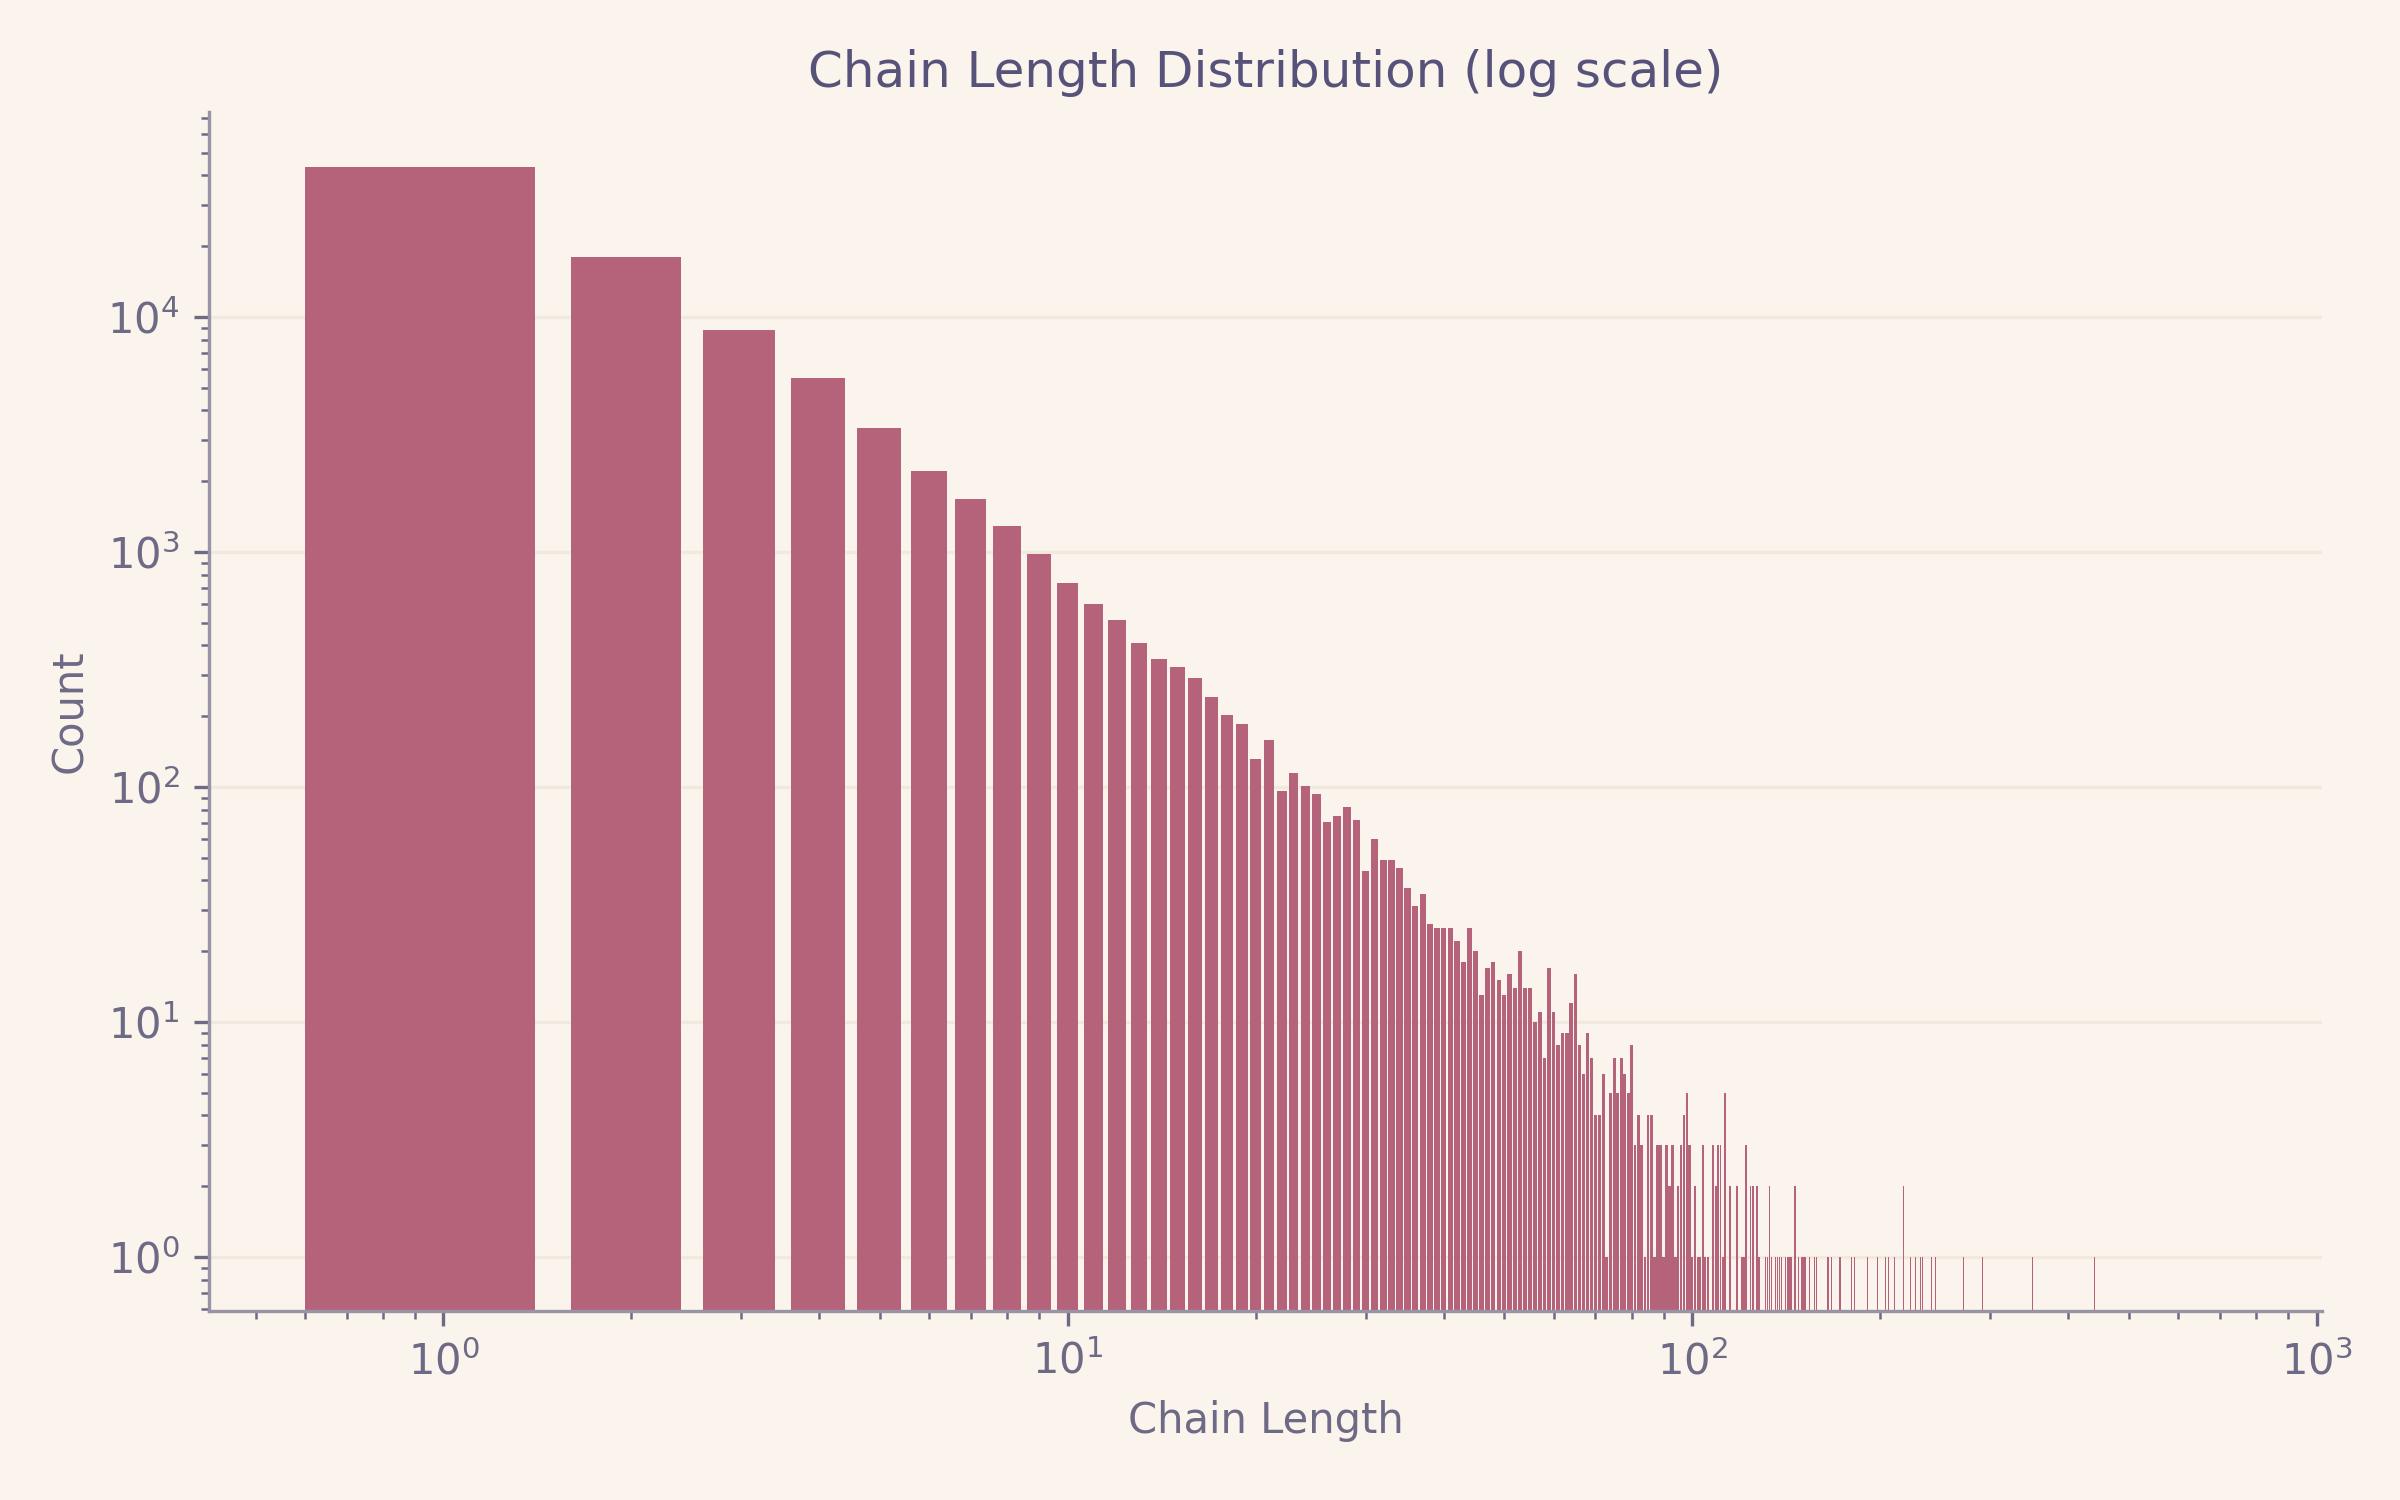
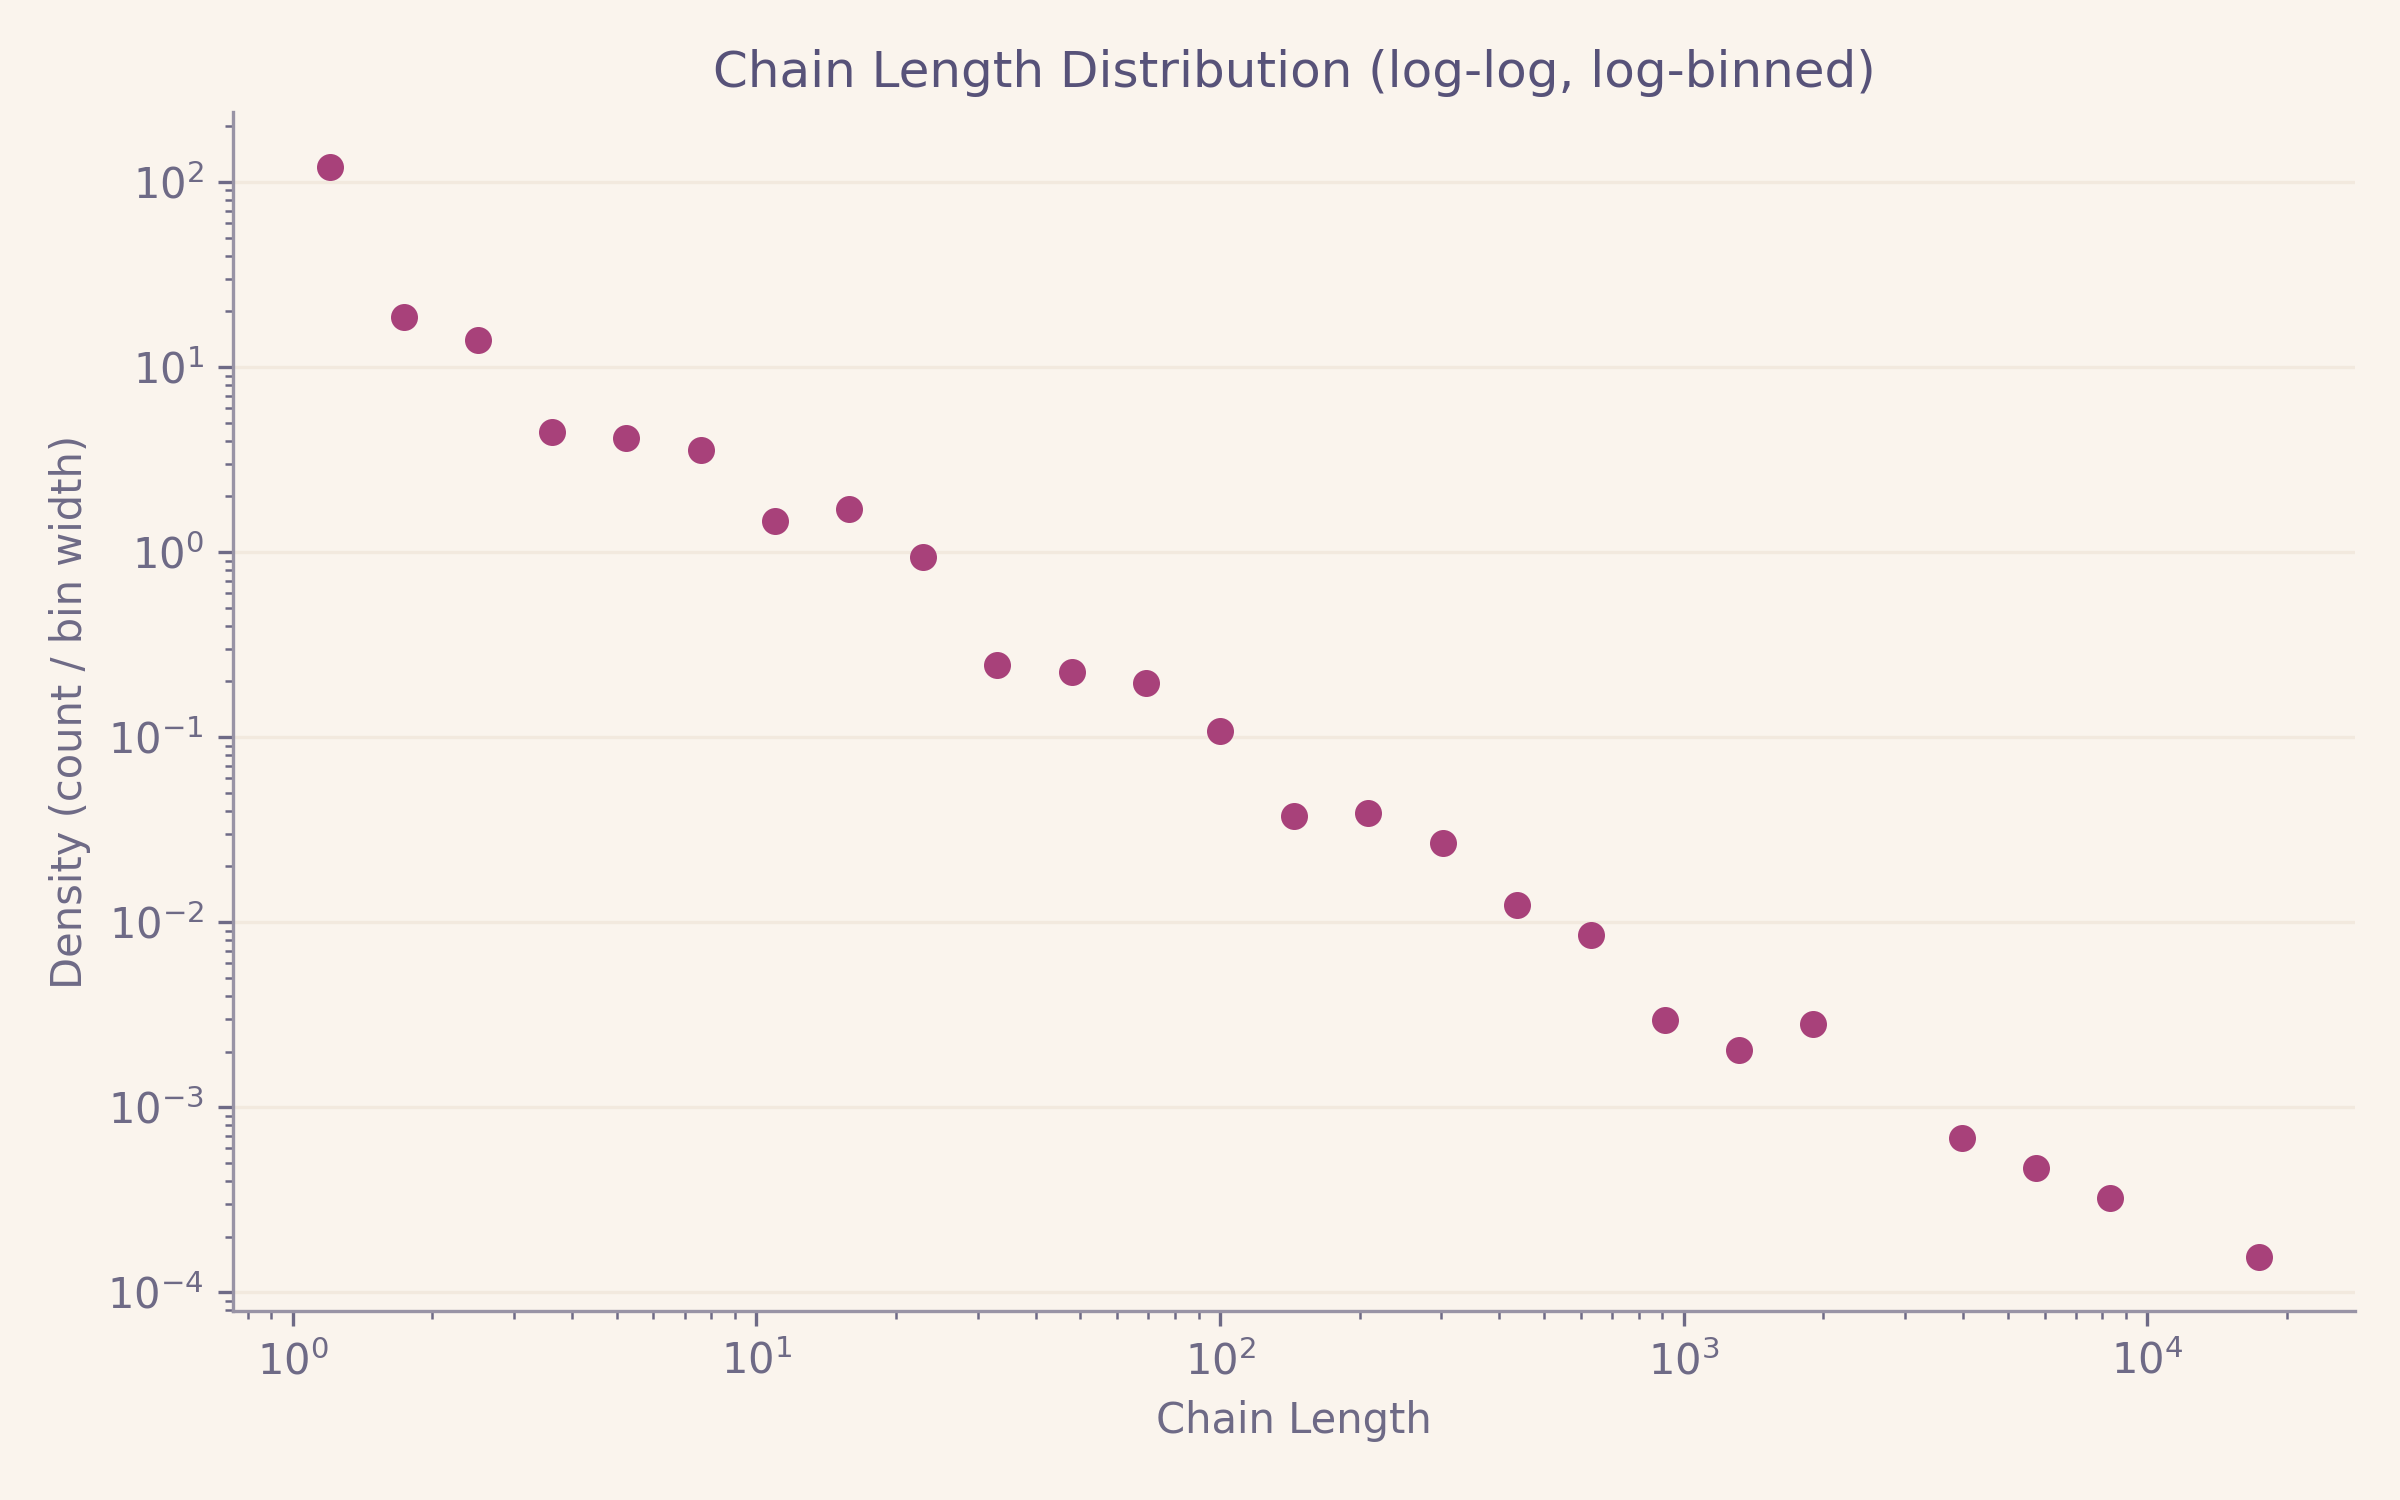
Finished fixing up the code and the plots. Only review left

diff --git a/src/plots.py b/src/plots.py
@@ -4,12 +4,22 @@ import matplotlib.pyplot as pyplot
 
 pyplot.style.use('rose-pine-dawn')
 
+def is_running_in_notebook() -> bool:
+    try:
+        from IPython import get_ipython
+        shell = get_ipython().__class__.__name__
+        return shell == "ZMQInteractiveShell"
+    except (NameError, ImportError):
+        return False
 
 def save_plot_image(name):
     pyplot.tight_layout()
     pyplot.savefig(f"../outputs/figures/{name}.png", dpi=300)
-    pyplot.clf()
 
+    if is_running_in_notebook():
+        pyplot.show()
+
+    pyplot.clf()
 
 def plot_relative_transaction_percentage(dataframe):
     dataframe = dataframe.drop(columns="transaction_id", errors="ignore")
@@ -17,7 +27,6 @@ def plot_relative_transaction_percentage(dataframe):
     ax.set_title("Relative Transaction Percentage Over Time")
     ax.set_xlabel("Time")
     ax.set_ylabel("Percentage (%)")
-    ax.legend(frameon=False)
     ax.spines[["top", "right"]].set_visible(False)
     save_plot_image("relative_transaction_percentage")
 
@@ -49,8 +58,8 @@ def plot_satoshi_dice_popularity(dataframe):
     save_plot_image("satoshi_dice_popularity")
 
 
-def plot_payout_distance_distribution(block_delta_dataframe, time_delta_dataframe):
-    fig, (ax1, ax2) = pyplot.subplots(1, 2, figsize=(16, 6))
+def plot_payout_distance_distribution(block_delta_dataframe, time_delta_dataframe, num_outlier_bins=20):
+    fig, (ax1, ax2, ax3) = pyplot.subplots(1, 3, figsize=(22, 6))
 
     ax1.hist(block_delta_dataframe, bins=50, edgecolor="black")
     ax1.set_xlabel("Block Distance")
@@ -63,59 +72,115 @@ def plot_payout_distance_distribution(block_delta_dataframe, time_delta_datafram
         time_delta = pd.to_timedelta(time_delta, unit="s")
     data_unit = time_delta.values.dtype.name.split("[")[-1].rstrip("]")
     bin_edges = pd.to_timedelta(
-        [0, 60, 300, 600, 1800, 3600, 21600, 86400, 3650 * 86400], unit="s"
+        [0, 60, 300, 600, 1800, 3600, 21600, 86400, 259200, 604800, 3650 * 86400],
+        unit="s",
     ).as_unit(data_unit)
-    bin_labels = ["<1m", "1-5m", "5-10m", "10-30m", "30-60m", "1-6h", "6-24h", ">1d"]
+    bin_labels = ["<1m", "1-5m", "5-10m", "10-30m", "30-60m", "1-6h", "6-24h", "1-3d", "3-7d", ">7d"]
     binned_counts = pd.cut(time_delta, bins=bin_edges, labels=bin_labels).value_counts().reindex(bin_labels)
-
     ax2.bar(bin_labels, binned_counts.values, edgecolor="black")
     ax2.set_xlabel("Time Distance")
     ax2.set_ylabel("Count")
     ax2.set_title("Bet to Payout Distance (Time)")
     ax2.tick_params(axis="x", rotation=45)
 
+    seven_days = pd.to_timedelta(7, unit="D")
+    outliers_days = (time_delta[time_delta > seven_days].dt.total_seconds() / 86400).values
+
+    if len(outliers_days) > 0:
+        min_d, max_d = outliers_days.min(), outliers_days.max()
+        if min_d == max_d:
+            ax3.scatter([min_d], [len(outliers_days)], s=30, edgecolor="black", linewidth=0.5)
+        else:
+            bins = np.logspace(np.log10(min_d), np.log10(max_d), num=num_outlier_bins)
+            counts, bin_edges_outliers = np.histogram(outliers_days, bins=bins)
+            bin_centers = np.sqrt(bin_edges_outliers[:-1] * bin_edges_outliers[1:])
+            mask = counts > 0
+            ax3.scatter(bin_centers[mask], counts[mask], s=30, edgecolor="black", linewidth=0.5)
+        ax3.set_xscale("log")
+        ax3.set_yscale("log")
+    else:
+        ax3.text(0.5, 0.5, "No outliers >7d", ha="center", va="center", transform=ax3.transAxes)
+
+    ax3.set_xlabel("Time Distance (days, >7d only)")
+    ax3.set_ylabel("Count")
+    ax3.set_title("Bet to Payout Distance Outliers (>7d, log-binned)")
+
     save_plot_image("payout_distance_distribution")
 
 
-def plot_time_distribution(series, index: int, freq: str = "Week") -> None:
-    ax = series.plot(kind='bar', figsize=(12, 4))
-    ax.set_title(f'Transactions per {freq}')
-    ax.set_xlabel('Time')
-    ax.set_ylabel('Count')
-    ax.set_xticklabels([ts.strftime('%Y-%m-%d') for ts in series.index])
-    pyplot.xticks(rotation=45, ha='right')
-    save_plot_image(f"popular_time_distribution_{index + 1}")
+def plot_time_distribution(items: list, freq: str = "Month") -> None:
+    fig, axes = pyplot.subplots(len(items), 1, figsize=(12, 4 * len(items)))
+    if len(items) == 1:
+        axes = [axes]
+
+    for ax, (series, index) in zip(axes, items):
+        series.plot(kind='bar', ax=ax)
+        ax.set_title(f'Transactions per {freq} ({index})')
+        ax.set_xlabel('Time')
+        ax.set_ylabel('Count')
+        ax.set_xticklabels([ts.strftime('%Y-%m-%d') for ts in series.index])
+        ax.tick_params(axis='x', rotation=45)
+        for label in ax.get_xticklabels():
+            label.set_ha('right')
+
+    pyplot.tight_layout()
+    save_plot_image("popular_time_distribution")
 
 
-def plot_bet_correlation(df, index, col1="transaction_fee", col2="amount"):
-    corr = df[col1].corr(df[col2])
-    fig, ax = pyplot.subplots()
-    ax.scatter(df[col1], df[col2], alpha=0.5, s=10)
-    ax.set(xlabel=col1, ylabel=col2, title=f"{col1} vs {col2}  |  r = {corr:.2f}")
-    ax.set_xlim(0, 0.04 * 1e8)
-    ax.set_ylim(0, 2.5 * 1e8)
-    save_plot_image(f"bet_correlation_{index + 1}")
+def plot_bet_correlation(items: list, col1="transaction_fee", col2="amount"):
+    fig, axes = pyplot.subplots(1, len(items), figsize=(6 * len(items), 6))
+    if len(items) == 1:
+        axes = [axes]
+
+    for ax, (df, index) in zip(axes, items):
+        corr = df[col1].corr(df[col2])
+        ax.scatter(df[col1], df[col2], alpha=0.5, s=10)
+        ax.set(xlabel=col1, ylabel=col2, title=f"{col1} vs {col2} ({index})  |  r = {corr:.2f}")
+        ax.set_xlim(0, 0.04 * 1e8)
+        ax.set_ylim(0, 2.5 * 1e8)
+
+    pyplot.tight_layout()
+    save_plot_image("bet_correlation")
 
 
-def plot_bet_distance(series, index):
-    data = series.dropna()
-    data = data[data > 0]
-    bins = np.logspace(np.log10(data.min()), np.log10(data.max()), 50)
+def plot_bet_distance(items: list):
+    fig, axes = pyplot.subplots(1, len(items), figsize=(8 * len(items), 5))
+    if len(items) == 1:
+        axes = [axes]
+
+    for ax, (series, index) in zip(axes, items):
+        data = series.dropna()
+        data = data[data > 0]
+        bins = np.logspace(np.log10(data.min()), np.log10(data.max()), 50)
+        ax.hist(data, bins=bins, edgecolor="black")
+        ax.set_xscale("log")
+        ax.set_xlabel("Time difference (s)")
+        ax.set_ylabel("Count")
+        ax.set_title(f"Distribution of Time Between Consecutive Bets ({index})")
+
+    pyplot.tight_layout()
+    save_plot_image("bet_distance")
+
+
+def plot_chain_length_distribution(paths_lengths):
+    lengths = np.array(paths_lengths)
+    lengths = lengths[lengths > 0]
+
+    min_len, max_len = lengths.min(), lengths.max()
+    bins = np.logspace(np.log10(min_len), np.log10(max_len), num=30)
+
+    counts, bin_edges = np.histogram(lengths, bins=bins)
+    bin_centers = np.sqrt(bin_edges[:-1] * bin_edges[1:])
+    widths = np.diff(bin_edges)
+
+    mask = counts > 0
+    density = counts[mask] / widths[mask]  # normalize by bin width
 
     fig, ax = pyplot.subplots(figsize=(8, 5))
-    ax.hist(data, bins=bins, edgecolor="black")
+    ax.scatter(bin_centers[mask], density, s=30, color="#a8417a")
     ax.set_xscale("log")
-    ax.set_xlabel("Time difference (s)")
-    ax.set_ylabel("Count")
-    ax.set_title("Distribution of Time Between Consecutive Bets")
-    save_plot_image(f"bet_distance_{index + 1}")
-
-
-def plot_chain_length_distribution(length_distribution):
-    fig, ax = pyplot.subplots(figsize=(8, 5))
-    ax.bar(length_distribution.index, length_distribution.values)
     ax.set_yscale("log")
     ax.set_xlabel("Chain Length")
-    ax.set_ylabel("Count")
-    ax.set_title("Chain Length Distribution (log scale)")
+    ax.set_ylabel("Density (count / bin width)")
+    ax.set_title("Chain Length Distribution (log-log, log-binned)")
     save_plot_image("chains_length_distribution")

diff --git a/src/analysis3_deanonymization.py b/src/analysis3_deanonymization.py
@@ -3,6 +3,7 @@ import csv
 from itertools import islice
 import uuid
 from collections import Counter
+import pandas
 
 def read_first_k_chains(filepath: str, k: int) -> list[list[str]]:
     with open(filepath, newline="", encoding="utf-8") as f:
@@ -29,8 +30,11 @@ def summarize_chain(bitcoin_addresses: list[str], wallet_addresses: list[str]) -
         "dominant_wallet_percentage": dominant_wallet_count / len(wallet_addresses) * 100,
     }
 
-parsed = [summarize_chain(bitcoin_addresses, wallet_addresses)
+chains_data = [summarize_chain(bitcoin_addresses, wallet_addresses)
           for bitcoin_addresses, wallet_addresses in zip(bitcoin_address_chains, wallet_address_chains)]
 
-# TODO: Display results
-print(parsed)
+chains_data = pandas.DataFrame(chains_data)
+
+chains_data.to_csv("../data/processed/deanonymized_chains.csv", index=None)
+
+print(chains_data)

diff --git a/src/analysis1_satoshi_transactions.py b/src/analysis1_satoshi_transactions.py
@@ -16,8 +16,10 @@ def resampled_amount(dataframe, start):
 transactions_amount = resampled_amount(transactions, earliest_satoshi_bet_timestamp)
 satoshi_bets_amount = resampled_amount(satoshi_bets, earliest_satoshi_bet_timestamp)
 
+transactions_amount.name = None
+satoshi_bets_amount.name = None
+
 relative_amounts = (satoshi_bets_amount / transactions_amount * 100)
-print(relative_amounts)
 
 plot_relative_transaction_percentage(relative_amounts)
 
@@ -25,6 +27,5 @@ absolute_amounts = pandas.DataFrame({
     "total": transactions_amount,
     "satoshi": satoshi_bets_amount
 })
-print(absolute_amounts)
 
 plot_absolute_transaction_percentage(absolute_amounts)

diff --git a/src/analysis1_satoshi_temporal_bet_distribution.py b/src/analysis1_satoshi_temporal_bet_distribution.py
@@ -7,7 +7,7 @@ transactions = read_parquet("transactions")
 satoshi_bets = transactions[transactions["is_satoshi_bet"]]
 satoshi_bets.drop_duplicates(subset="transaction_id")
 
-def temporal_distribution(bets: pandas.DataFrame, time_step = "1W"):
+def temporal_distribution(bets: pandas.DataFrame, time_step = "1ME"):
     return bets.resample(time_step, on="timestamp").size()
 
 plot_map(

diff --git a/src/plot_map.py b/src/plot_map.py
@@ -8,4 +8,4 @@ def plot_map(amount_popular_dices, bets_dataframe, map_function, plot_function):
 
     distances = [map_function(filtered_bets(bets_dataframe, dice_id)) for dice_id in most_popular_dices]
 
-    return [plot_function(distance, index) for (index, distance) in enumerate(distances)]
+    return plot_function([(distance, index + 1) for (index, distance) in enumerate(distances)])

diff --git a/src/analysis2_bet_chains.py b/src/analysis2_bet_chains.py
@@ -30,6 +30,5 @@ paths_lengths = [len(nodes) for nodes in paths_nodes]
 
 length_distribution = pandas.Series(paths_lengths).value_counts().sort_index()
 
-# TODO: fix this plot and all the others
 plot_chain_length_distribution(length_distribution)
 save_to_csv('../data/processed/simple_bet_chain_nodes.csv', paths_nodes)